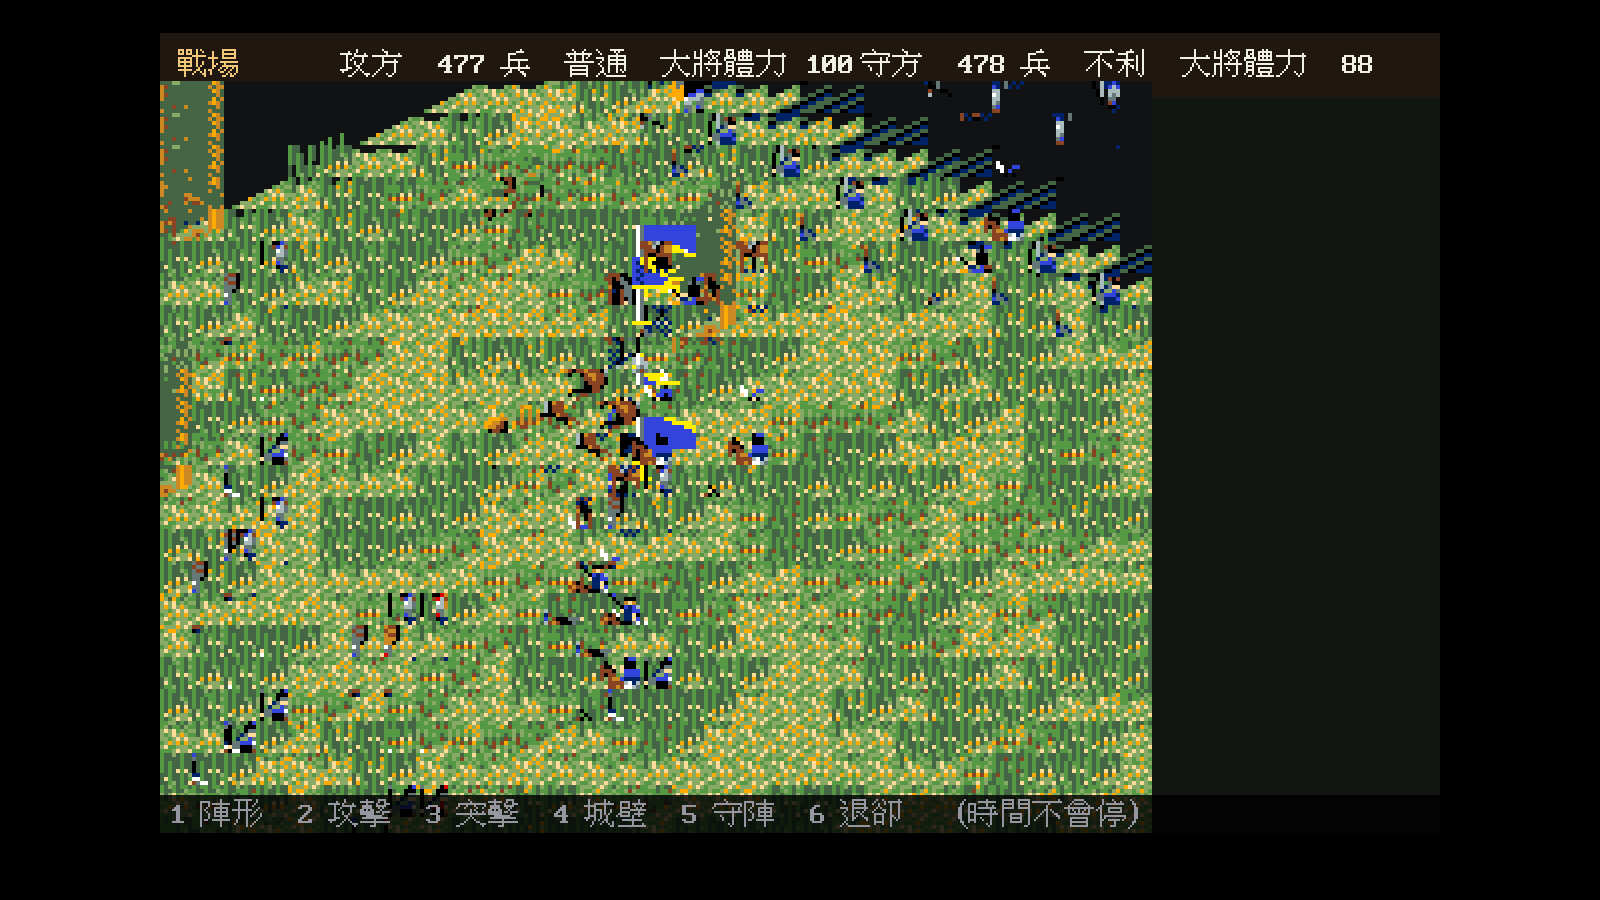
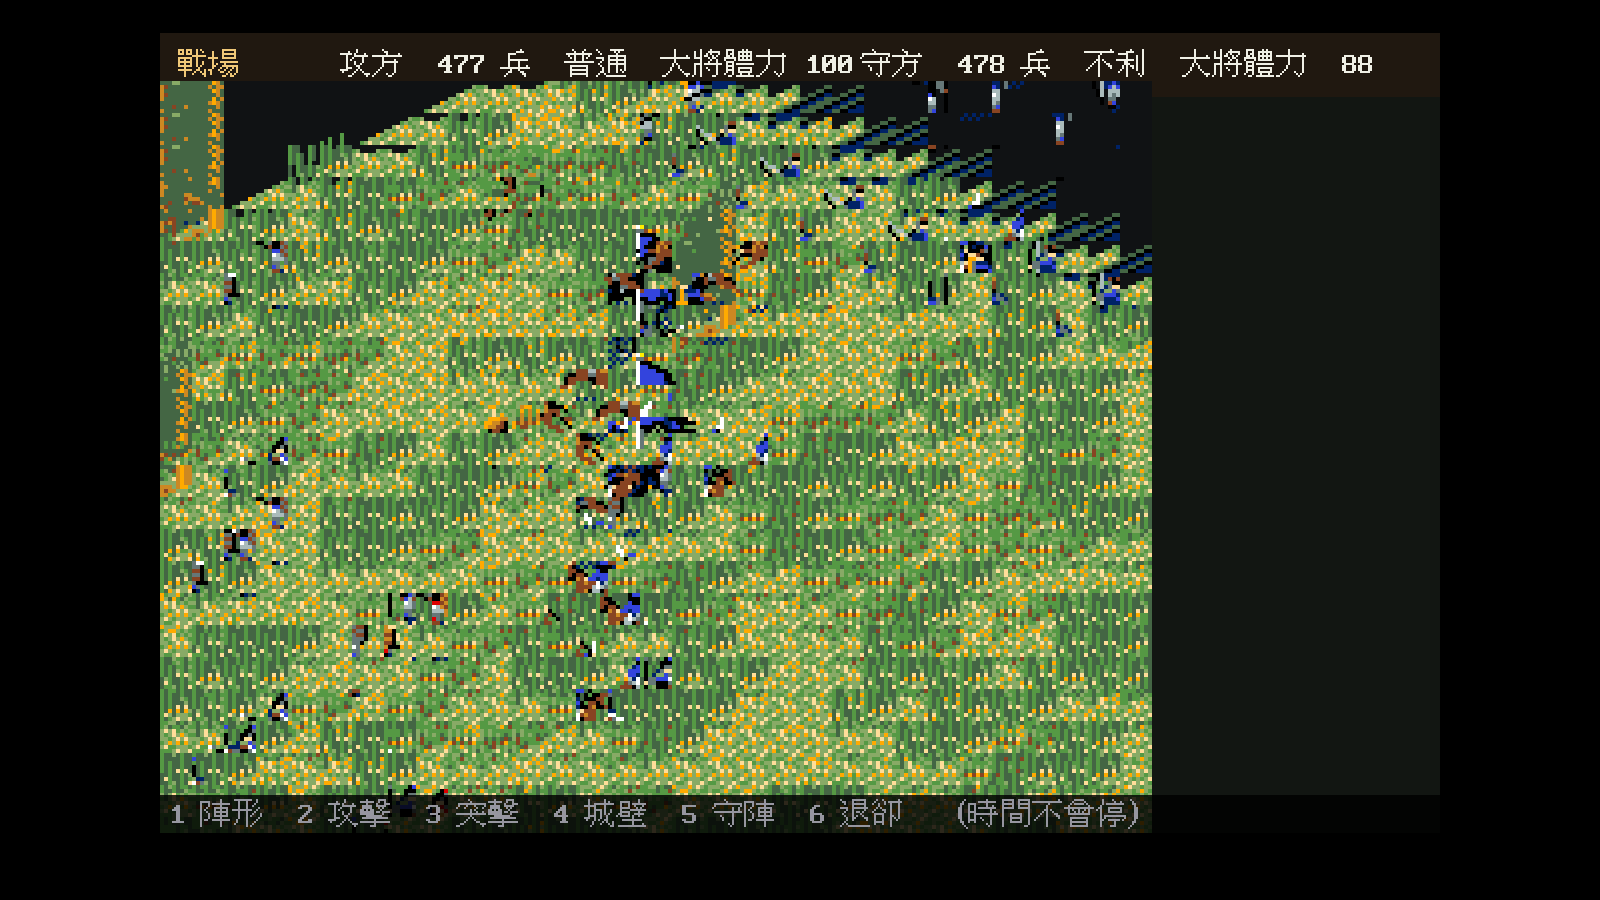
人物圖號的公式解出來了：讀繪製碼，不再靠統計猜幾何
`sub_1B240` 的尾段就是答案：

    圖號 ＝ 兵種 ＋（面向 × 2 ｜ 狀態旗標 & 0x19） ＋ 側 × 90
    單位 ＝ 圖號 × 2 ＋ 192

三個常數各自解釋了一件本來獨立的事：

- **`add cl, [si+4]`**：兵種存成「× 18」就是為了當圖號用
  （`sub_1AB7C` 的門檻也全是 18 的倍數，同一個理由）
- **`add cx, 5Ah`（90）**：一側 90 張 → `BATTLE.SCH` 的 360 單位 ÷ 2 ÷ 2
- **`add cx, 0C0h`（192）**：地形與人物**在同一張表裡**，前 192 個單位是
  `BATTLE.MDL` 的子圖塊（61,440 ÷ 320），後面接 `BATTLE.SCH`。
  `sub_1CC31` 把兩個緩衝區排在一起就是為了這個

狀態旗標：bit 0 是**走路的動畫幀**（每次更新完 `xor [si+2], 1`）、
bit 4 設了就一律用正面、bit 3 是另一個狀態。18 張裡實際用到 0–15。

`sub_1E085` 的取圖算術把單位大小也寫死了：`k×256 + k×64 = k×320`，
接著 64 B 遮罩（`not` ＋ `and` → 1 ＝ 有畫）、256 B 四個色平面（`or`），
與前兩輪量出來的格式完全一致。`sub_1E0E1` 是帶垂直位移的版本，
把後面那一格的下半截貼進這一格的上半——高的人物壓到後排就是這樣做的。

一筆進「已被推翻的斷言」，這輪的教訓：

  我為了幾何改了兩次結論（16×32 → 16×64），兩次都是拿統計去猜。
  **統計只能告訴你「有關聯」，不能告訴你「怎麼組合」。**
  讀那三十行繪製碼就全清楚了，而且順帶送了 90 與 192 兩個常數。

diff --git a/cmd/wlgame/battleview.go b/cmd/wlgame/battleview.go
@@ -115,18 +115,20 @@ const (
 	maxRow = (tactical.Height-1)/2 + isoOriginY
 )
 
-// soldierImage 取一個兵的圖。
+// soldierImage 取一個兵的圖。圖號的算法照 `sub_1B240` 的尾段
+// （docs/re/11 §5.13）：兵種 ＋（面向 × 2 ｜ 狀態旗標）。
 //
-// ⭐ **圖號就是兵種的儲存值**（0／18／36／54）——兵種存成「× 18」正是
-// 為了當索引用（docs/formats/07 §10）。姿勢那 18 張裡誰是誰還沒解，
-// 所以這裡先用面向去挑，**那一段是 remake 的選擇**。
-func (v *battleView) soldierImage(side int, kind tactical.Kind, facing int) *ebiten.Image {
-	return v.frame(side, battle.SpriteFor(int(kind), facing))
+// flags 這裡只餵得出**走路的動畫幀**（bit 0）——原版每次更新完
+// `xor [si+2], 1`，所以拿幀數的最低位當它。其餘旗標（bit 3／4）
+// 對應的狀態本專案還沒有等價物。
+func (v *battleView) soldierImage(side int, kind tactical.Kind, facing, step int) *ebiten.Image {
+	return v.frame(side, battle.SpriteFor(int(kind), facing, step&battle.PoseFlagStep))
 }
 
-// bannerImage 取軍旗。大將身邊插的那一支。
-func (v *battleView) bannerImage(side, pose int) *ebiten.Image {
-	return v.frame(side, battle.BannerSprite+pose%battle.PosesPerKind)
+// bannerImage 取軍旗。大將身邊插的那一支——軍旗那一組
+// （圖 72–89）不是兵種，所以直接用面向去挑。
+func (v *battleView) bannerImage(side, facing int) *ebiten.Image {
+	return v.frame(side, battle.BannerSprite+facing*battle.FacingStride)
 }
 
 func (v *battleView) frame(side, n int) *ebiten.Image {
@@ -266,7 +268,7 @@ func (g *game) drawBattleIso(screen *ebiten.Image, b *tactical.Battle, me *tacti
 			if !ok {
 				continue
 			}
-			if img := v.soldierImage(i, s.Kind, s.Facing); img != nil {
+			if img := v.soldierImage(i, s.Kind, s.Facing, b.Frame+k); img != nil {
 				op := &ebiten.DrawImageOptions{}
 				// 腳底對準格子：圖高 64，站的那一格在最下面那一列。
 				op.GeoM.Translate(float64(px-battle.SpriteW/2),
@@ -274,11 +276,11 @@ func (g *game) drawBattleIso(screen *ebiten.Image, b *tactical.Battle, me *tacti
 				v.buf.DrawImage(img, op)
 				// 大將身邊插軍旗（圖 72–89 那一組）。
 				if s.IsGeneral() {
-					if b := v.bannerImage(i, s.Facing); b != nil {
+					if bn := v.bannerImage(i, s.Facing); bn != nil {
 						op.GeoM.Reset()
 						op.GeoM.Translate(float64(px-battle.SpriteW/2+6),
 							float64(py-battle.SpriteH+isoRowPx-4))
-						v.buf.DrawImage(b, op)
+						v.buf.DrawImage(bn, op)
 					}
 				}
 				continue

diff --git a/internal/assets/battle/sprites.go b/internal/assets/battle/sprites.go
@@ -105,8 +105,45 @@ func (s *Sprites) Sprite(side, n int) *Frame {
 	return f
 }
 
-// SpriteFor 回傳某個兵種第 pose 個姿勢的圖號。
-// kind 直接傳兵種的**儲存值**（0／18／36／54），因為它本身就是索引。
-func SpriteFor(kind, pose int) int {
-	return kind + pose%PosesPerKind
+// 姿勢的位元編碼（`sub_1B240` 尾段，docs/re/11 §5.13）。
+//
+//	cl  = [si+05] × 2          面向 0–3 → 0／2／4／6
+//	ch  = [si+02] & 0x19       狀態旗標的 bit 0、3、4
+//	     bit 4 設了 → **面向歸零**
+//	cl |= ch ; cl += [si+04]   ＋ 兵種（已經 × 18）
+//	side 1 → cx += 0x5A（90）
+//	cx = cx × 2 + 0xC0（192）  → 合併表裡的單位編號
+//
+// 最後那個 `+192` 正是**地形子圖塊的張數**——原版把地形與人物放在
+// 同一張表裡（`word_1E15A`），前 192 個單位是地形（`BATTLE.MDL` 的
+// 61,440 B ÷ 320），後面接 `BATTLE.SCH`。兩個檔案在記憶體裡是連著的
+// （`sub_1CC31` 把 `ds:0D304` 排在 `ds:0D302` 之後）。
+//
+// ⭐ **bit 0 是走路的動畫幀**：`sub_1B240` 每次更新完就 `xor [si+2], 1`。
+const (
+	// FacingStride 是面向在圖號裡的間隔。
+	FacingStride = 2
+	// PoseFlagMask 是狀態旗標裡會進圖號的位元。
+	PoseFlagMask = 0x19
+	// PoseFlagStep 是動畫幀那一位（bit 0），每次更新翻面。
+	PoseFlagStep = 0x01
+	// PoseFlagFront 是「面向歸零」那一位（bit 4）。
+	PoseFlagFront = 0x10
+)
+
+// SpriteFor 回傳一個兵要用第幾張圖（0–89，同一側內）。
+//
+// kind 傳兵種的**儲存值**（0／18／36／54），因為它本身就是索引；
+// facing 是 0–3；flags 是兵記錄 `+0x02` 的狀態旗標。
+func SpriteFor(kind, facing, flags int) int {
+	f := flags & PoseFlagMask
+	pose := facing * FacingStride
+	if f&PoseFlagFront != 0 {
+		pose = 0 // bit 4 設了就一律用正面
+	}
+	n := kind + (pose | f)
+	if n < 0 || n >= SpritesPerSide {
+		return 0
+	}
+	return n
 }

diff --git a/internal/assets/battle/battle_test.go b/internal/assets/battle/battle_test.go
@@ -268,7 +268,7 @@ func TestSpriteGroupsMatchTroopKind(t *testing.T) {
 	ratio := func(kind int) float64 {
 		var n, b int
 		for pose := 0; pose < PosesPerKind; pose++ {
-			f := sp.Sprite(0, SpriteFor(kind, pose))
+			f := sp.Sprite(0, kind+pose)
 			if f == nil {
 				t.Fatalf("兵種 %d 第 %d 張取不到", kind, pose)
 			}
@@ -318,5 +318,37 @@ func TestSpriteGroupsMatchTroopKind(t *testing.T) {
 	}
 	if flag < 500 {
 		t.Errorf("軍旗那一組只有 %d 個紅色像素，看起來不是旗子", flag)
+	}
+}
+
+// 圖號公式照 `sub_1B240` 的尾段（docs/re/11 §5.13）。
+//
+// 這條測試釘住三件已經對過機器碼的事：
+//   - 面向的間隔是 2（`shl cl, 1`）
+//   - **bit 4 設了就一律用正面**（`test ch, 10h` → `xor cl, cl`）
+//   - bit 0（走路的動畫幀）與 bit 3 直接 OR 進圖號
+func TestSpriteForMatchesOriginal(t *testing.T) {
+	cases := []struct{ kind, facing, flags, want int }{
+		{0, 0, 0, 0},    // 大將、面向 0、無旗標
+		{0, 3, 0, 6},    // 面向 3 → 3×2
+		{18, 2, 0, 22},  // 騎馬 ＋ 面向 2
+		{54, 1, 1, 57},  // 步兵 ＋ 面向 1 ＋ 動畫幀
+		{18, 3, 8, 32},  // 騎馬 ＋ 面向 3 ＋ bit 3
+		{36, 3, 16, 52}, // ★ bit 4 → 面向歸零，只留旗標
+		{36, 3, 17, 53}, // bit 4 ＋ bit 0
+	}
+	for _, c := range cases {
+		if got := SpriteFor(c.kind, c.facing, c.flags); got != c.want {
+			t.Errorf("SpriteFor(%d, %d, %#x) ＝ %d，應為 %d",
+				c.kind, c.facing, c.flags, got, c.want)
+		}
+	}
+	// 兩側相差 90 張（原版的 `add cx, 5Ah`）。
+	if SpritesPerSide != 0x5A {
+		t.Errorf("一側 %d 張，原版是 0x5A ＝ 90", SpritesPerSide)
+	}
+	// 合併表裡人物接在 192 個地形子圖塊後面（原版的 `add cx, 0C0h`）。
+	if NumSubTiles != 0xC0 {
+		t.Errorf("地形子圖塊 %d 個，原版的偏移是 0xC0 ＝ 192", NumSubTiles)
 	}
 }

diff --git a/docs/re/11-tactical-battle.md b/docs/re/11-tactical-battle.md
@@ -1387,6 +1387,54 @@ sub bx, cs:word_1E162 / jl .out / cmp bx, 18h / jge .out   ; 24 列
 後半段那個 32 B × 32 × 24 的緩衝區（`word_1E15C`）是**遮蔽用的顯示串列**：
 每格記著誰佔著、深度多少，兵走到高處時才不會被前面的地形蓋掉。
 
+### 5.13 ⭐ 人物圖號是算出來的：`sub_1B240` 的尾段
+
+```asm
+mov cl, [si+5]        ; 面向 0–3
+shl cl, 1             ; ★ 面向的間隔是 2
+mov ch, [si+2]
+and ch, 19h           ; ★ 狀態旗標只取 bit 0、3、4
+test ch, 10h
+jz  .keep
+xor cl, cl            ; ★ bit 4 設了 → 面向歸零（一律正面）
+.keep:
+or  cl, ch
+add cl, [si+4]        ; ★ ＋ 兵種（記錄裡已經是 × 18）
+xor ch, ch
+cmp si, 600h / jb .s0
+add cx, 5Ah           ; ★ side 1 ＋ 90
+.s0:
+shl cx, 1             ; ★ 一張圖 ＝ 2 個 320 B 單位
+add cx, 0C0h          ; ★ ＋ 192：人物接在 192 個地形子圖塊後面
+call sub_1DA1C        ; 存進顯示串列
+...
+xor byte ptr [si+2], 1   ; ★ bit 0 每次更新翻面 ＝ 走路的動畫幀
+```
+
+⭐ **這一段同時解釋了三件本來各自獨立的事**：
+
+| 常數 | 是什麼 |
+|---|---|
+| `[si+4]` 直接相加 | **兵種存成「× 18」就是為了當圖號用**（`sub_1AB7C` 的門檻也全是 18 的倍數） |
+| `add cx, 5Ah`（90） | 一側 90 張，兩側共 180 張 ＝ `BATTLE.SCH` 的 360 個單位 ÷ 2 |
+| `add cx, 0C0h`（192） | **地形與人物在同一張表裡**：前 192 個單位是 `BATTLE.MDL` 的子圖塊（61,440 ÷ 320），後面接 `BATTLE.SCH`。`sub_1CC31` 把兩個緩衝區排在一起就是為了這個 |
+
+取圖的算術在 `sub_1E085`：
+
+```asm
+shl ax, 1 / shl ah, 1 / add ch, ah / shl ah,1 / shl ah,1 / add ch, ah
+xor ah, ah / shr ax, 1 / xchg al, ah / mov si, ax
+shr ax, 1 / shr ax, 1 / add si, ax      ; ★ si ＝ 編號 × 320
+```
+
+`k × 256 + k × 64 = k × 320` ——**單位大小 320 B 在這裡是直接寫死的**。
+接著讀 64 B 當遮罩（`not` ＋ `and`，所以 **1 ＝ 有畫**）、
+再讀 256 B 當四個色平面（`or`），與 docs/formats/07 §9 完全一致。
+
+`sub_1E0E1` 是同一件事但帶垂直位移（`dx` ＝ 0x30 或 0x20）：
+它把**後面那一格的下半截**貼進這一格的上半——高的人物會壓到後排，
+遮蔽就是這樣處理的。
+
 ## 6. 還沒解的
 
 按「解開之後能換到什麼」排序：
@@ -1412,7 +1460,7 @@ sub bx, cs:word_1E162 / jl .out / cmp bx, 18h / jge .out   ; 24 列
 | **物件格 `0xBA`–`0xBF` 是什麼** | `sub_19E10` 生成的 32 B 記錄（`0x0E00` 起），`+0x1C` 是 `0x150`／`0x204` | 梯子？投石？ |
 | **`[si+05]` 一下打穿城壁的條件** | `seg000:B5B7`（§5.11） | 攻城戰的節奏 |
 | ~~像素格式~~ | ✅ **192 個子圖塊 × 320 B ＝ 五個 64 B 位元平面**（遮罩 ＋ 4bpp），16 × 32（docs/formats/07 §9） |
-| **人物圖形** | `BATTLE.SCH`（115,200 B，`ds:0D304`） | 兵與大將現在還是色點 |
+| ~~人物圖形~~ | ✅ 與子圖塊同格式，圖號 ＝ 兵種 ＋（面向×2｜旗標）＋ 側×90（§5.13） |
 | ~~`ds:0D30A` 那 64 B~~ | ✅ **兩軍的編成摘要**，戰略層與戰術層之間的那張表（§3.9） |
 | `ds:0D2FC`／`0D2FE`／`0D300`／`0D306` | 合計 65,536 B | — |
 

diff --git a/CONTEXT.md b/CONTEXT.md
@@ -194,7 +194,7 @@ Go 版與 Python 版的輸出逐像素完全相同。
 
 | `BATTLE.SCH` 的單位是 **320 B**（因為 320 B 的不變量成立） | 重複單元是 **640 B**（兩個 320 B 一組） | 不變量成立**只證明平面結構對，不證明單元大小對**。自相關講得很清楚：stride 320 與 960 在基準上（64.8%／64.2%），640 與 1280 明顯高（79.1%／73.5%）——**奇數倍不相關、偶數倍相關**。兩個檢查各自回答不同的問題,不要拿一個去代替另一個 |
 
-| 人物圖形一張是 **16 × 32**（一個 320 B 單位） | **16 × 64**，兩個單位疊起來，**奇數在上、偶數在下** | 我用「左右接合」測過就以為排除了拼接，**但沒測上下**。四種接法量下來只有一種（i+1 的底列接 i 的頂列）是 27.6%，其餘 5–17%。**排除法只在窮舉過所有可能時才叫排除法** |
+| 人物圖形一張是 16 × 32／16 × 64（改過兩次） | **一張圖 ＝ 2 個單位**（`shl cx, 1`），但不是單純上下疊——高出來的部分由**後面那一格**用 `sub_1E0E1` 貼進來 | 兩次都是拿統計去猜幾何：先量左右接合（低）就說沒拼接，再量上下接合（27.6%）就說是 16 × 64。**統計只能告訴你「有關聯」，不能告訴你「怎麼組合」**——那要看繪製碼。讀了 `sub_1B240`／`sub_1E085`／`sub_1E0E1` 三十行就全清楚了，而且順帶解釋了 90 與 192 兩個常數 |
 | 補兵時抄隊長的兵種 | 要用**那一隊的兵種** | 第 0 隊的隊長是大將，照隊長補會讓整隊變成大將——而大將不攻擊也不會陣亡，一整隊站著不動。**這個 bug 是畫上原版人物圖形之後才看見的**（畫面上冒出五面軍旗），色點畫法看不出來。**把資料畫出來本身就是一種測試** |
 
 > 每推翻一條就記一列，寫清楚誰推翻誰、憑什麼。**空著不是好事，是還沒開始驗。**

diff --git a/docs/formats/07-battle.md b/docs/formats/07-battle.md
@@ -359,8 +359,18 @@ byte 1          運算元
 | 54–71 | 步兵 | 8% |
 | 72–89 | **軍旗** | 白桿 ＋ 紅旗／藍旗，佔滿 64 px |
 
-⚠ 一組裡的 18 張是什麼（方向 × 動作幀？）**還沒解**。本專案暫時用面向去挑，
-那一段在程式碼裡標著「remake 的選擇」。
+### ⭐ 18 張裡誰是誰：`sub_1B240` 的尾段（`docs/re/11` §5.13）
+
+    圖號 ＝ 兵種 ＋（面向 × 2 ｜ 狀態旗標 & 0x19） ＋ 側 × 90
+
+| 位 | 作用 |
+|---|---|
+| 面向 × 2 | 0／2／4／6，四個方向 |
+| bit 0 | **走路的動畫幀**——每次更新完 `xor [si+2], 1` |
+| bit 3 | 另一個狀態（＋8） |
+| bit 4 | **設了就一律用正面**（面向歸零） |
+
+所以 18 張裡實際用到 0–15，最後兩張沒被這個公式選到。
 
 ### 順帶：畫面是 640 × 400 的 EGA 平面模式
 

diff --git a/README.md b/README.md
@@ -170,7 +170,9 @@
 正是兵種的值。**兵種存成「× 18」就是為了當索引用**。第五組是**軍旗**，
 白桿紅旗，插在大將身邊。
 
-⚠ 一組裡的 18 張是什麼（方向 × 動作幀？）還沒解，目前用面向去挑。
+圖號的算法也照原版（`sub_1B240` 尾段）：**兵種 ＋（面向 × 2 ｜ 狀態旗標）＋ 側 × 90**。
+狀態旗標的 bit 0 是**走路的動畫幀**——原版每次更新完 `xor [si+2], 1`。
+那個 `+192` 是地形子圖塊的張數：**地形與人物在同一張表裡**。
 
 野戰的戰場是**從大地圖上即時算出來的**，不是隨機挑一張
 （`internal/rules/battlefield`）：取軍團所在格與下方四格的地形類型，
